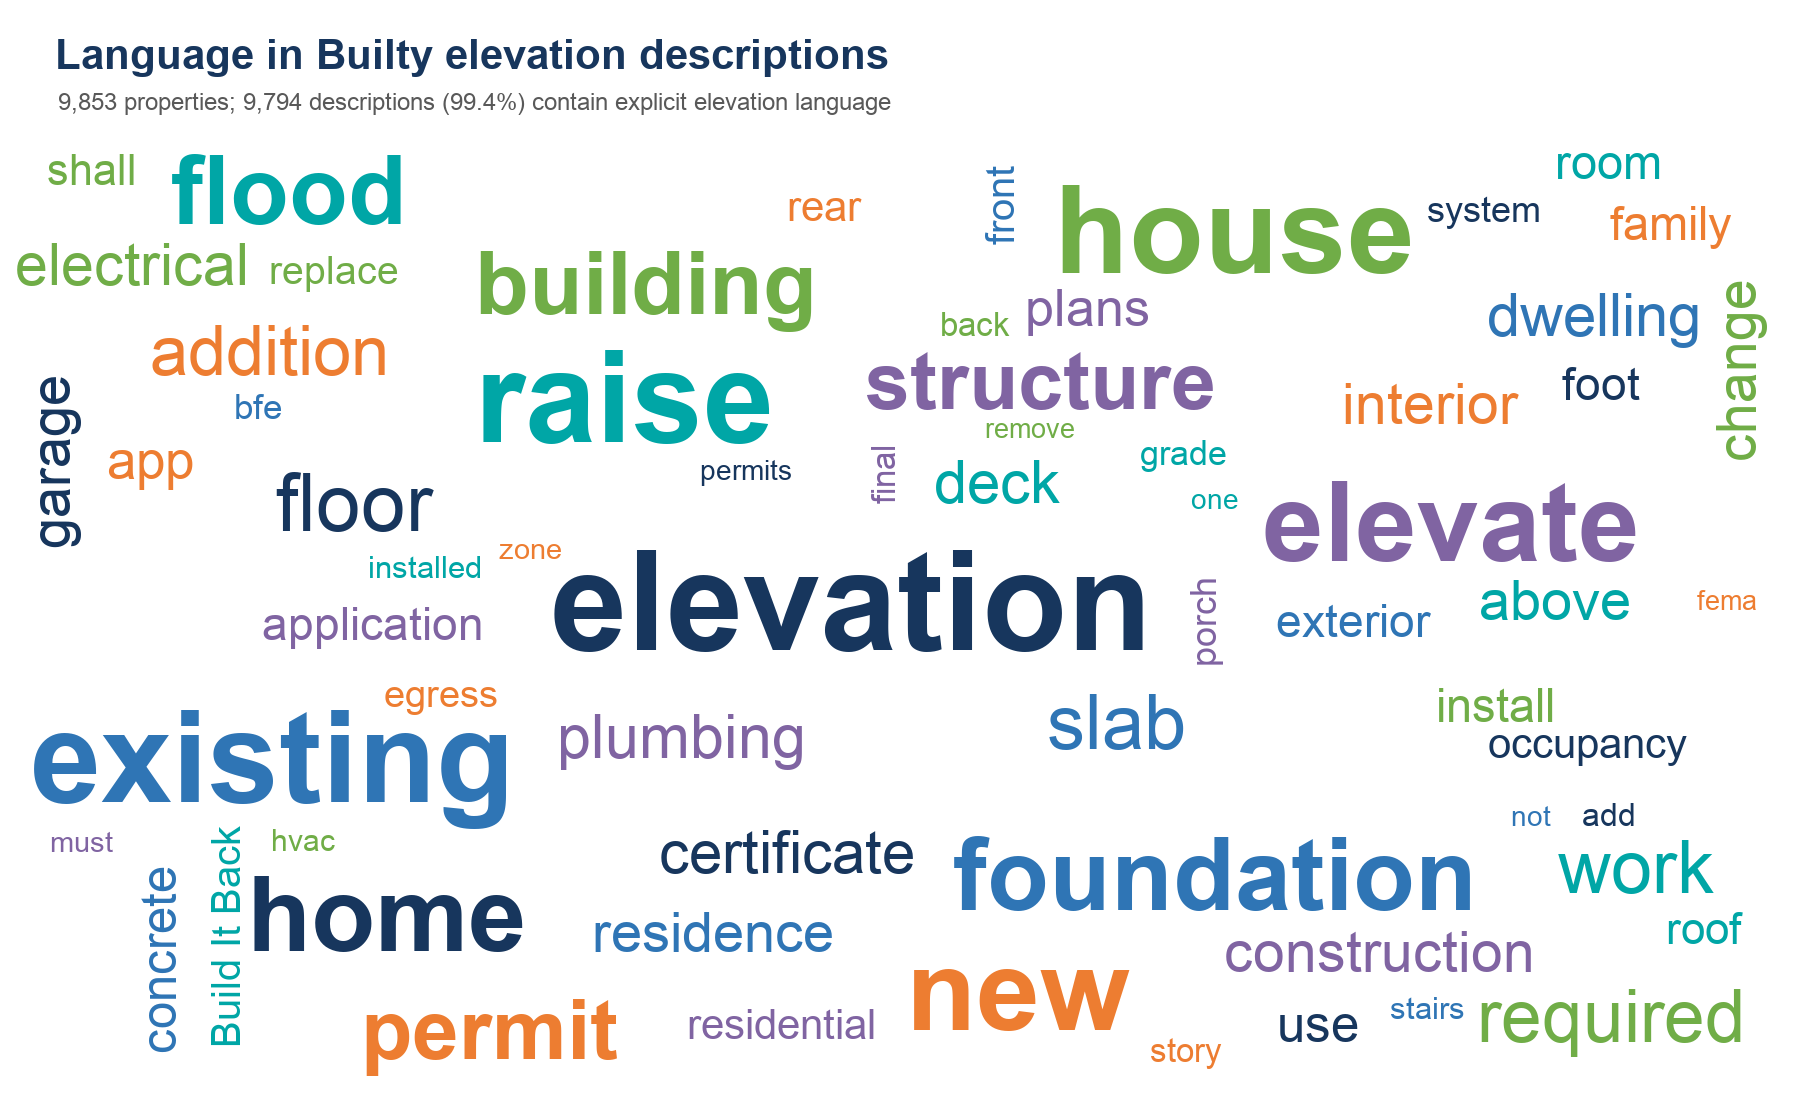
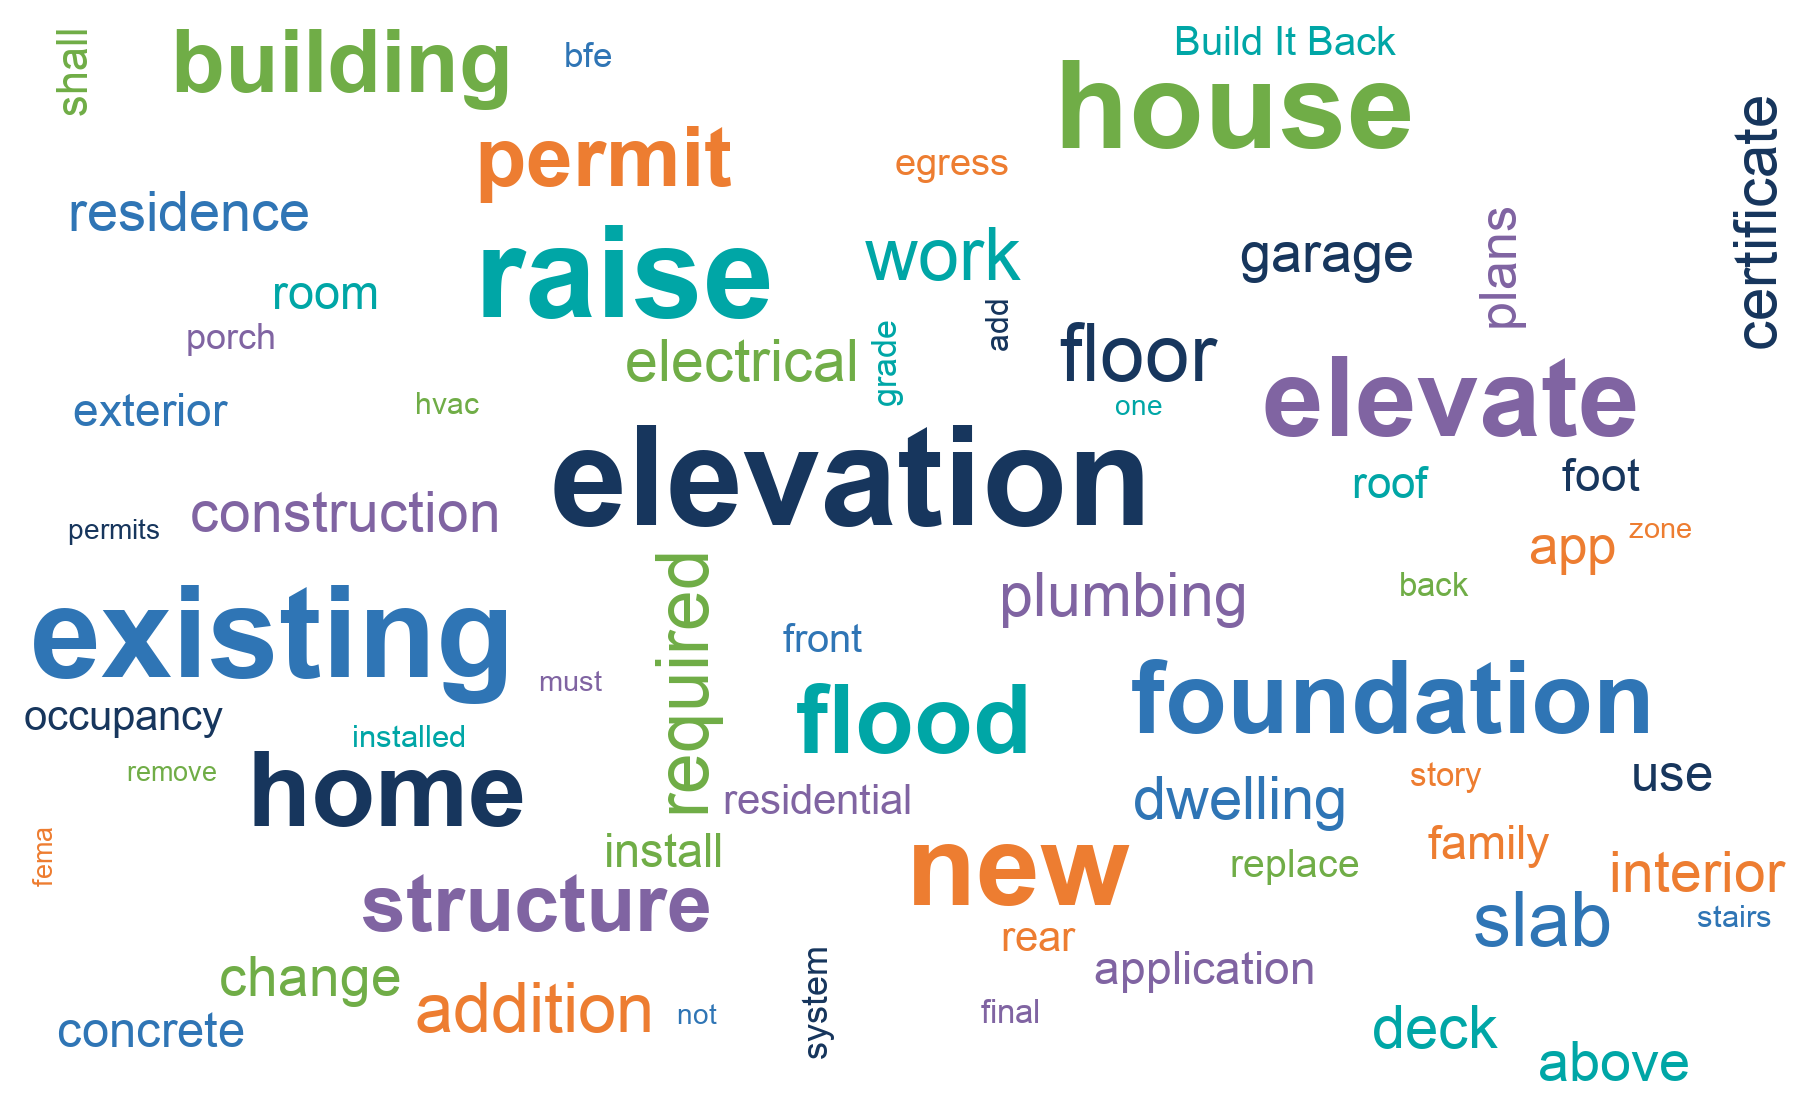
Remove word cloud title block

diff --git a/code/descriptives/create_builty_elevation_wordcloud.py b/code/descriptives/create_builty_elevation_wordcloud.py
@@ -48,7 +48,7 @@ ELEVATION = r"elevat|raise|raising|raised|jack|lift|bfe|base flood|freeboard|pil
 #some distinct colors to use
 COLORS = ("#17365D", "#2F75B5", "#00A6A6", "#70AD47", "#ED7D31", "#8064A2")
 
-WIDTH, HEIGHT, TOP = 1800, 1100, 145
+WIDTH, HEIGHT, TOP = 1800, 1100, 20
 
 
 def parse_args() -> argparse.Namespace:
@@ -78,18 +78,9 @@ def word_counts(text: pd.Series, max_words: int) -> list[tuple[str, int]]:
     return counts.most_common(max_words)
 
 # Draws the picture. Biggest words first, each one dropped into whatever gap is still free, shrinking it if nothing fits.
-def draw_cloud(ranked, n_rows: int, n_elevated: int, output: Path) -> None:
-    # Blank white page, then the title block across the top.
+def draw_cloud(ranked, output: Path) -> None:
+    # Blank white page with a small outer margin.
     image = Image.new("RGB", (WIDTH, HEIGHT), "white")
-    header = ImageDraw.Draw(image)
-    header.text((55, 30), "Language in Builty elevation descriptions",
-                font=font(42, bold=True), fill="#17365D")
-    share = n_elevated / n_rows if n_rows else 0
-    subtitle = (
-        f"{n_rows:,} properties; {n_elevated:,} descriptions ({share:.1%}) "
-        "contain explicit elevation language"
-    )
-    header.text((58, 88), subtitle, font=font(24), fill="#595959")
 
     # A map of the page, one cell per pixel: True once something is drawn there.
     # Only covers below the title, so words can never run into the header.
@@ -160,7 +151,7 @@ def main() -> None:
     n_elevated = int(text.str.lower().str.contains(ELEVATION, regex=True).sum())
 
     ranked = word_counts(text, args.max_words)
-    draw_cloud(ranked, len(frame), n_elevated, Path(args.output))
+    draw_cloud(ranked, Path(args.output))
 
     print(f"Saved {args.output}")
     print(f"Elevation language: {n_elevated:,}/{len(frame):,} ({n_elevated / len(frame):.1%})")
